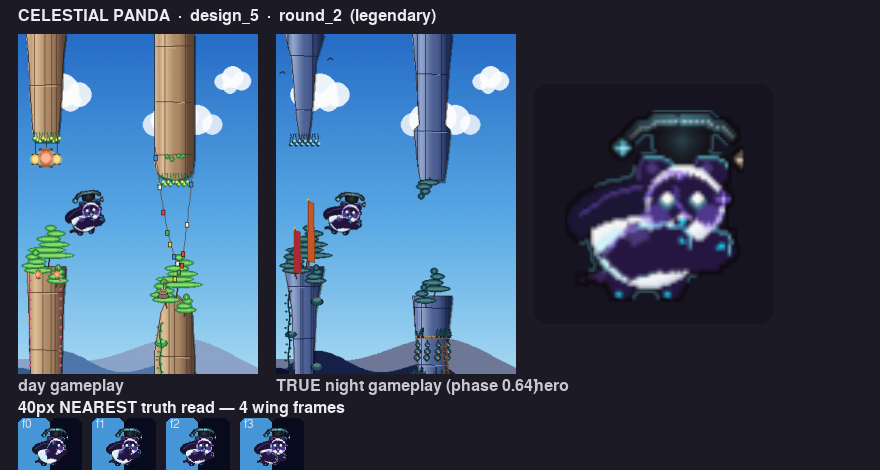
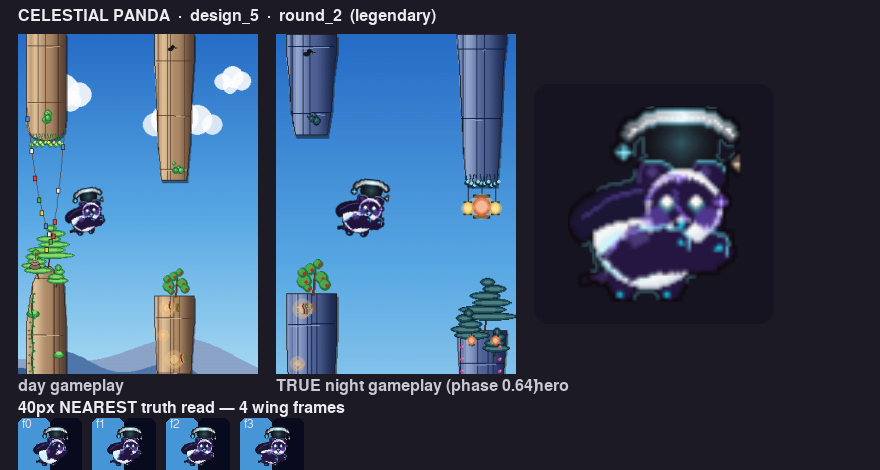
panda design_5 CELESTIAL R2: floating halo, indigo body rim-light, belly bloom, clean sparkles
Claude-Session: https://claude.ai/code/session_01K6KPJsdtoYoDR2za2Jqnmo

diff --git a/tools/panda_candidates/design_5.py b/tools/panda_candidates/design_5.py
@@ -157,27 +157,33 @@ def build(wing_angle_deg) -> pygame.Surface:
     # it — at 40px the halo must read as a separate floating element, never a
     # lump fused to the head. Rendered as a soft cyan-white bloom + a bright
     # thin 2px arc core, brightest at the apex. Sits its own ~6px above CROWN_Y.
-    HALO_CY = CROWN_Y - 9               # arc baseline, clear of the ears
-    halo_glow = _radial_glow(15, CYAN, 70, falloff=2.2)
-    surf.blit(halo_glow, halo_glow.get_rect(center=(HCX, HALO_CY - 1)))
-    # Bright thin arc core: two passes (soft wide + crisp 1px white) so it reads
-    # as a glowing ring line, apex brightest.
+    HALO_CY = CROWN_Y - 11              # arc baseline, a clear ~5px gap to ears
+    # Wide cyan bloom anchored at the apex so the halo survives the downscale to
+    # 40px as a bright floating glow rather than collapsing into the dark crown.
+    halo_glow = _radial_glow(18, CYAN, 95, falloff=2.0)
+    surf.blit(halo_glow, halo_glow.get_rect(center=(HCX, HALO_CY)))
     arc_pts = []
-    for i in range(21):
-        t = i / 20.0
-        a = math.pi * (0.10 + 0.80 * t)        # upper arc only
-        hx = HCX + math.cos(a) * 17
-        hy = HALO_CY - math.sin(a) * 8
+    for i in range(25):
+        t = i / 24.0
+        a = math.pi * (0.08 + 0.84 * t)        # upper arc only
+        hx = HCX + math.cos(a) * 18
+        hy = HALO_CY - math.sin(a) * 9
         arc_pts.append((hx, hy, t))
+    # Three passes thicken the apex into a chunky bright bar that reads at 40px:
+    # soft cyan halo, a 2px white-cyan core, then a crisp white centre line.
     for hx, hy, t in arc_pts:
-        # Apex (t≈0.5) is brightest; ends fade so the ring feels lit from above.
-        apex = 1.0 - abs(t - 0.5) * 1.4
-        glow_a = int(120 * max(0.0, apex))
-        pygame.draw.circle(surf, (*CYAN, glow_a), (int(hx), int(hy)), 2)
+        apex = 1.0 - abs(t - 0.5) * 1.3
+        if apex <= 0:
+            continue
+        pygame.draw.circle(surf, (*CYAN, int(150 * apex)), (int(hx), int(hy)), 3)
     for hx, hy, t in arc_pts:
         apex = 1.0 - abs(t - 0.5) * 1.2
-        core_a = int(255 * max(0.25, apex))
-        surf.set_at((int(hx), int(hy)), (255, 255, 255, core_a))
+        if apex <= 0.05:
+            continue
+        pygame.draw.circle(surf, (235, 250, 255, int(255 * apex)),
+                           (int(hx), int(hy)), 2)
+    for hx, hy, t in arc_pts:
+        surf.set_at((int(hx), int(hy)), (255, 255, 255, 255))
 
     # ── round galaxy ears past the crown ──
     # No body speckle here — at 40px it just turns to noise. Each ear carries a

diff --git a/tools/panda_candidates/_render_design_5_r2.py b/tools/panda_candidates/_render_design_5_r2.py
@@ -47,24 +47,25 @@ def label(text, x, y, col=(235, 235, 240)):
 
 
 def _night_gameplay_panel(w, h):
-    """A true-dark night-biome variant of ninja_render.gameplay_panel."""
+    """A true-dark night-biome variant of ninja_render.gameplay_panel. The crop
+    is lifted to sit the bird against the dark UPPER sky (~RGB 10,18,53) and
+    exclude the lit horizon band at the bottom — the cosmic palette is meant to
+    be judged on a genuinely dark background, not the dusk-blue glow."""
     scene = pygame.Surface((GW, GH))
     palette = biome.palette_for_phase(NIGHT_PHASE)
     scene.blit(get_sky_surface_biome(GW, GH, GROUND_Y, palette, 0), (0, 0))
-    for bx, by, sc, variant in ((40, 90, 0.9, 0), (200, 130, 1.1, 2), (300, 70, 0.7, 1)):
-        draw_cloud(scene, bx, by, sc, variant=variant)
     draw_mountains(scene, 40.0, GROUND_Y, GW, palette['mtn_far'], palette['mtn_near'])
-    Pipe(x=12, gap_y=250, gap_h=185).draw(scene, palette)
-    Pipe(x=200, gap_y=300, gap_h=170).draw(scene, palette)
+    Pipe(x=12, gap_y=210, gap_h=185).draw(scene, palette)
+    Pipe(x=210, gap_y=260, gap_h=170).draw(scene, palette)
     draw_ground(scene, GROUND_Y, GW, GH, 40.0,
                 palette['ground_top'], palette['ground_mid'], (60, 40, 25))
-    pip_cx, pip_cy = 96, 270
+    pip_cx, pip_cy = 96, 210
     frame = _frame(source, 2, -5.0)
     scene.blit(frame, frame.get_rect(center=(pip_cx, pip_cy)))
-    crop_h = int(GH * 0.78)
+    crop_h = int(GH * 0.62)
     crop_w = int(crop_h * w / h)
     crop = pygame.Rect(0, 0, crop_w, crop_h)
-    crop.center = (pip_cx + 34, pip_cy - 20)
+    crop.center = (pip_cx + 34, pip_cy - 24)
     crop.clamp_ip(pygame.Rect(0, 0, GW, GH))
     return pygame.transform.smoothscale(scene.subsurface(crop).copy(), (w, h))
 
